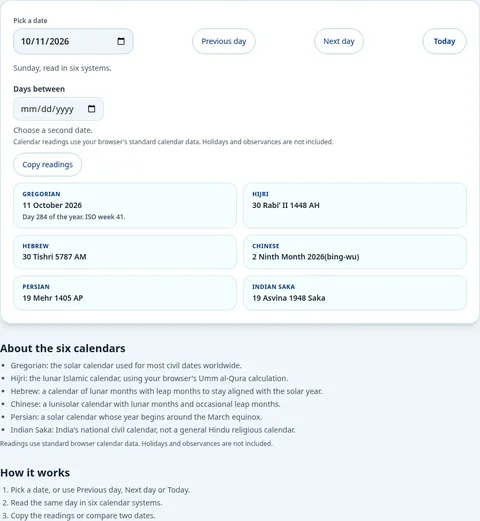
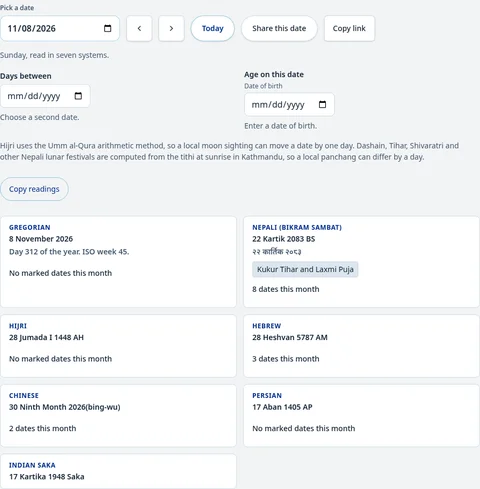
Correct Chronos seven-calendar copy and verify shipped registry links

diff --git a/src/lib/changelog.ts b/src/lib/changelog.ts
@@ -153,14 +153,14 @@ export const changelog: ChangeEntry[] = [
     items: [
       "Every product page has a share picture, including Float.",
       "Currency pair pages and /currensee/rates use the same Nepal Rastra Bank reference rates, adjusted for each currency's unit.",
-      "Chronos puts the six calendar readings directly below the date picker.",
+      "Chronos puts the calendar readings directly below the date picker.",
       "The Float waitlist now saves your email when you join.",
     ],
   },
   { date: "2026-10-14", title: "Currency references and the Nepal transfer guide", tag: "Launch", items: ["CurrenSee now has 20 currency pair pages, including /currensee/aud-to-npr, with reference amounts and related conversions.", "The /currensee/rates page lists today's Nepal Rastra Bank buy, sell and midpoint reference rates, with the rate date shown.", "The guide at /guides/sending-money-to-nepal-from-australia explains how to compare a transfer quote with the AUD to NPR reference rate."] },
   { date: "2026-10-12", title: "Float and currency pair pages", tag: "Launch", items: ["Float now has its own page at /float for working out what is left to spend after bills and BNPL instalments.", "CurrenSee has its first pair pages, such as /currensee/aud-to-npr, with today's reference rate, quick reference tables and related pairs.", "Pair page breadcrumbs now read Home, CurrenSee and the pair, and a page no longer links to itself."] },
   { date: "2026-10-11", title: "Mobile layout updates", tag: "Improvement", items: ["Home no longer has a sticky product action. Product pages show only their own action after its opening button scrolls away, and hide it during typing, menus and printing.", "Home puts the products before How I work, removes repeated sections, and uses two opening actions.", "Product cards share one layout and current tool screenshots without extra captions.", "Footer links appear once, with legal links grouped at the bottom.", "Product pages put the real tool below one introduction, remove mockups and repeated actions, and share CurrenSee amounts without quotes.", "CurrenSee adds Nepal, Gulf, Malaysian and South Korean currencies with Nepal Rastra Bank reference data and a labelled INR-peg fallback for NPR."] },
-  { date: "2026-10-10", title: "October navigation updates", tag: "Improvement", items: ["Desktop and mobile menus identify the current page for screen readers.", "The footer links to the latest release and shows its date.", "Finance Friend lists the trade sentence patterns it understands.", "Chronos explains each of its six calendar readings.", "Each live product card is one keyboard-accessible link.", "Information pages print without site menus and include full link addresses.", "Product names on About link directly to their tools.", "CurrenSee shows the inverse reference rate below the result."] },
+  { date: "2026-10-10", title: "October navigation updates", tag: "Improvement", items: ["Desktop and mobile menus identify the current page for screen readers.", "The footer links to the latest release and shows its date.", "Finance Friend lists the trade sentence patterns it understands.", "Chronos explains each of its calendar readings.", "Each live product card is one keyboard-accessible link.", "Information pages print without site menus and include full link addresses.", "Product names on About link directly to their tools.", "CurrenSee shows the inverse reference rate below the result."] },
   { date: "2026-10-09", title: "Saved progress and sharper tool output", tag: "Improvement", items: ["Finance Friend labels each trade as Buy or Sell and copies saved holdings as CSV.", "Grocery keeps ticked items for each pack after a refresh and shows how many are ticked.", "A grocery link can open a chosen pack directly.", "Product pages list the other SkyCo tools, and Status can check the USD to EUR rate on demand.", "Security explains how to report a problem, and the home page answers three common questions."] },
   { date: "2026-10-08", title: "October tool updates", tag: "Improvement", items: ["Grocery quantities scale for households of one, two, four or six, with the choice remembered in this browser.", "FAQ search filters questions and announces the match count.", "Status lists each live tool with its data sources and direct link.", "Releases are grouped by month, and upcoming tools have plain cards.", "The machine-readable product directory names each tool's single job.", "CurrenSee remembers the last conversion, shares the pair and amount in its link, offers popular pairs and announces unavailable rates with a retry button.", "The one-minute rate cache has an explicit size limit, and Chronos updates its date link without adding history entries."] },
   { date: "2026-10-07", title: "Clearer tool feedback", tag: "Improvement", items: ["CurrenSee shows how many minutes ago the rate was fetched and refreshes that line every minute.", "Chronos day buttons have clear labels and Today confirms the reset.", "Finance Friend announces when it cannot read a trade.", "Grocery lists can untick every item at once.", "Chronos, Finance Friend and Grocery explain how they work in three steps.", "The home page trust link opens the mission section, and Privacy and Terms date their last update.", "The support form checks message length, keeps your draft after a refresh, filters automated submissions and confirms when your email app opens.", "CurrenSee connects to its rate sources earlier, and the installed app lists its categories.", "About summarises how the tools handle access and data."] },

diff --git a/src/lib/projects.ts b/src/lib/projects.ts
@@ -62,17 +62,17 @@ export const projectRegistry: SkyCoProject[] = [
   },
   {
     slug: "chronos",
-    job: "Read one date in six calendar systems.",
+    job: "Read one date in seven calendar systems.",
     name: "Chronos",
-    tagline: "Every calendar in one place",
+    tagline: "Seven calendar systems in one place",
     description:
-      "Gregorian, Hijri, Hebrew, Chinese, Persian and Indian Saka calendars side by side, so every date you track lines up in a single view.",
+      "Gregorian, Nepali Bikram Sambat, Hijri, Hebrew, Chinese, Persian and Indian Saka calendars side by side, so every date you track lines up in a single view.",
     icon: "calendar",
     path: "/chronos",
     dataSources: [],
-    demo: "Pick one day and read it in six calendars in about ten seconds.",
+    demo: "Pick one day and read it in seven calendars in about ten seconds.",
     why: "Families and teams that live across two or three calendar systems end up converting dates by hand.",
-    example: "Pick one day and read it as Gregorian, Hijri, Hebrew, Chinese, Persian and Indian Saka at once.",
+    example: "Pick one day and read it as Gregorian, Nepali Bikram Sambat, Hijri, Hebrew, Chinese, Persian and Indian Saka at once.",
     account: "No account needed.",
     candidates: [],
   },

diff --git a/src/lib/projects.test.ts b/src/lib/projects.test.ts
@@ -1,0 +1,19 @@
+import assert from "node:assert/strict";
+import { test } from "node:test";
+import { fallbackDirectory, liveProjects, splitDirectory } from "./projects";
+
+test("the five shipped products resolve to first-party hub routes", () => {
+  const paths = ["/currensee", "/chronos", "/finance-friend", "/grocery", "/float"];
+  assert.deepEqual(liveProjects.map((project) => project.path), paths);
+  assert.deepEqual(liveProjects.map((project) => project.href), paths.map((path) => `https://skyco.online${path}`));
+});
+
+test("Budget & Expenses and Daily Notes remain planned without shipped paths", () => {
+  const { upcoming } = splitDirectory(fallbackDirectory);
+  assert.deepEqual(upcoming.map((project) => project.name), ["Budget & Expenses", "Daily Notes"]);
+  for (const project of upcoming) {
+    assert.equal(project.live, false);
+    assert.equal(project.path, undefined);
+    assert.deepEqual(project.candidates, []);
+  }
+});

diff --git a/src/lib/product-shots.ts b/src/lib/product-shots.ts
@@ -43,9 +43,9 @@ export const productShots: Record<string, ProductShot> = {
   chronos: {
     src: chronos,
     srcSet: `${chronos480} 480w, ${chronos800} 800w, ${chronos} 1280w`,
-    alt: "Chronos showing the chosen date in six calendar systems",
-    captured: "2026-10-11",
-    result: "One tapped day, read back in six calendar systems.",
+    alt: "Chronos showing the chosen date in seven calendar systems",
+    captured: "2026-11-08",
+    result: "One tapped day, read back in seven calendar systems.",
   },
   "my-finance-friend": {
     src: finance,

diff --git a/src/routes/chronos.tsx b/src/routes/chronos.tsx
@@ -5,7 +5,7 @@ import { ChronosCalendars } from "@/components/experiences/ChronosCalendars";
 import { fallbackDirectory, type ResolvedProject } from "@/lib/projects";
 import { getProjectDirectory } from "@/lib/projects.functions";
 
-const TITLE = "Chronos: one date in six calendars | SkyCo";
+const TITLE = "Chronos: one date in seven calendars | SkyCo";
 const DESCRIPTION =
   "Date converter: Gregorian, Nepali (Bikram Sambat), Hijri, Hebrew, Chinese, Persian and Indian Saka. Read one date in seven calendars, free with no account.";
 

diff --git a/src/components/experiences/ChronosCalendars.tsx b/src/components/experiences/ChronosCalendars.tsx
@@ -8,7 +8,7 @@ import { ChronosObservances } from "./ChronosObservances";
 
 /**
  * The Chronos reading, running on skyco.online itself.
- * Pick one day and read it back in six calendar systems at once.
+ * Pick one day and read it back in seven calendar systems at once.
  */
 const SYSTEMS: { label: string; calendar: string; locale: string; system?: CalendarSystem; lang?: string; dir?: "rtl" | "ltr" }[] = [
   { label: "Gregorian", calendar: "gregory", locale: "en-GB", system: "gregorian" },

diff --git a/src/components/ToolsGrid.tsx b/src/components/ToolsGrid.tsx
@@ -77,7 +77,7 @@ export function ToolsGrid({ directory }: { directory: ResolvedProject[] }) {
           })}
         </div>
 
-        {upcomingProjects.length > 0 && <p className="mt-6 text-sm text-muted-foreground">On the way: {upcomingProjects.map(p => p.name).join(", ")}.</p>}
+        {upcomingProjects.length > 0 && <p className="mt-6 text-sm text-muted-foreground">Planned, not yet available: {upcomingProjects.map(p => p.name).join(", ")}.</p>}
 
       </div>
     </section>

diff --git a/MASTER_PLAN.md b/MASTER_PLAN.md
@@ -196,10 +196,10 @@ At the start of each run:
 #### Product inventory and copy
 
 - [x] Treat `src/lib/projects.ts` as the product registry source of truth; verified the five shipped first-party route literals and planned-only Budget & Expenses / Daily Notes entries on 6 November 2026.
-- [ ] Correct Chronos registry job/tagline/copy from six to seven systems.
-- [ ] Correct the Chronos page title and all stale six-calendar text.
+- [x] Correct Chronos registry job/tagline/copy from six to seven systems. 8 November 2026: registry job, tagline, demo, description and example include all seven, including Nepali Bikram Sambat; home and generated llms.txt verified.
+- [x] Correct the Chronos page title and all stale six-calendar text. 8 November 2026: title/OG/Twitter share the corrected seven-calendar title; corrected comments and historic count wording without inventing historical features; refreshed the existing home screenshot. Chronos date navigation and preserved moon-sighting/panchang caveats verified at 390px then 1280px, no overflow; preview build green.
 - [x] Verify all five shipped product cards and routes point to `skyco.online/<product>`; 7 November 2026: registry slugs/paths, typed ToolsGrid links, route declarations, canonical/OG/SoftwareApplication URLs and sitemap entries match `/currensee`, `/chronos`, `/finance-friend`, `/grocery` and `/float`. Live home-card click-through opened all five expected pages.
-- [ ] Keep Budget & Expenses and Daily Notes clearly planned, not live.
+- [x] Keep Budget & Expenses and Daily Notes clearly planned, not live. 8 November 2026: home explicitly says "Planned, not yet available"; both entries have no shipped paths or candidates. Two registry tests pass; all five existing card destinations and route canonical URLs verified at 390px then 1280px, with card actions at least 44px. No deployment.
 - [x] Remove obsolete separate-subdomain instructions from active project guidance; retain history with a clear superseded label. 7 November 2026: README and AGENTS.md already specify the first-party hub; corrected §1.2 to reference the actual historical proposal in `roadmap.md` (the referenced `.lovable/plan.md` path is absent from the current tree), labelled that proposal superseded/do-not-execute, and retained the original mapping. No DNS or hosting redirect state is claimed or changed.
 - [x] Align README's canonical live URL with `https://skyco.online`; verified in `README.md` on 6 November 2026.
 - [x] Add project-document links to README: `MASTER_PLAN.md`, `roadmap.md`, `AGENTS.md`; all three links verified on 6 November 2026.
